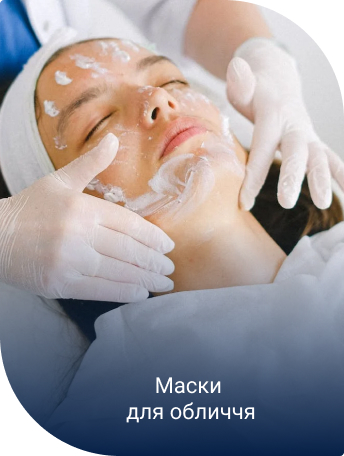
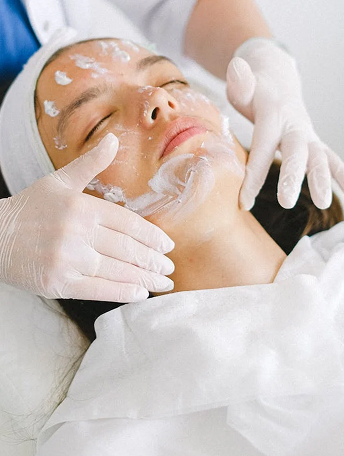
update
pictures, footer information and correct mistakes

diff --git a/css/styles.css b/css/styles.css
@@ -194,9 +194,7 @@ address {
 
 .header-media {
     display: flex;
-    flex-grow: 1;
     gap: 32px;
-    justify-content: center;
 }
 
 .header-socials {
@@ -303,7 +301,7 @@ address {
     border-radius: 32px;
     text-align: center;
     border: 1px solid blue;
-    gap: 8px;
+    padding: 24px 32px;
     background-color: var(--primary-color-light);
 }
 
@@ -336,7 +334,17 @@ address {
     gap: 32px;
     padding-top: 60px;
 }
-
+.procedures-card {
+    width: 344px;
+    height: 456px;
+    background-image:linear-gradient(180.05deg, rgba(1, 28, 68, 0) 48.53%,
+     rgba(1, 28, 68, 0.725825) 84.61%,
+     #011C44 101.39%);
+    border-top-left-radius: 120px;
+    border-top-right-radius: 4px;
+    border-bottom-right-radius: 120px;
+    border-bottom-left-radius: 4px;
+}
 .carousel-button {
     border-radius: 50%;
     width: 44px;
@@ -456,13 +464,20 @@ footer {
 .footer-logo,
 .footer-menu {
     flex-grow: 1;
+    display: flex;
+    flex-direction: column;
+    gap: 16px;
 }
-
 .address-list,
 .address-info {
     flex-grow: 1;
 }
-
+.address-list {
+    display: flex;
+    flex-grow: 1;
+    flex-direction: column;
+    gap: 16px;
+}
 .address-link {
     font-family: 'Roboto', sans-serif;
     font-weight: 400;
@@ -480,7 +495,6 @@ footer {
     display: flex;
     fill: var(--primary-color-light);
     flex-direction: row;
-    margin-top: 30px;
     gap: 24px;
     transition: color 0.2s;
 }

diff --git a/index.html b/index.html
@@ -48,7 +48,7 @@
                             </svg>
                         </a>
                     </li>
-                    <ul>
+                </ul>
             </div>
         </div>
     </header>
@@ -157,7 +157,7 @@
                     </button>
                     <div class="procedures-list">
                         <img class="procedures-card" src="./images/mask.jpg" alt="маска">
-                        <img class="procedures-card" src="./images/injection.jpg" alt="ін'єкція">
+                        <img class="procedures-card" src="./images/injections.jpg" alt="ін'єкція">
                         <img class="procedures-card" src="./images/pilling.jpg" alt="пілінг">
                     </div>
                     <button class="carousel-button" type="button">
@@ -260,7 +260,7 @@
             </div>
         </div>
     </footer>
-    <div class="backdrop">
+    <div class="backdrop is-hidden">
         <div class="modal">
             <button class="modal-btn-close" type="button">Close</button>
             <h2 class="modal-title">Замовити <br> дзвінок</h2>
